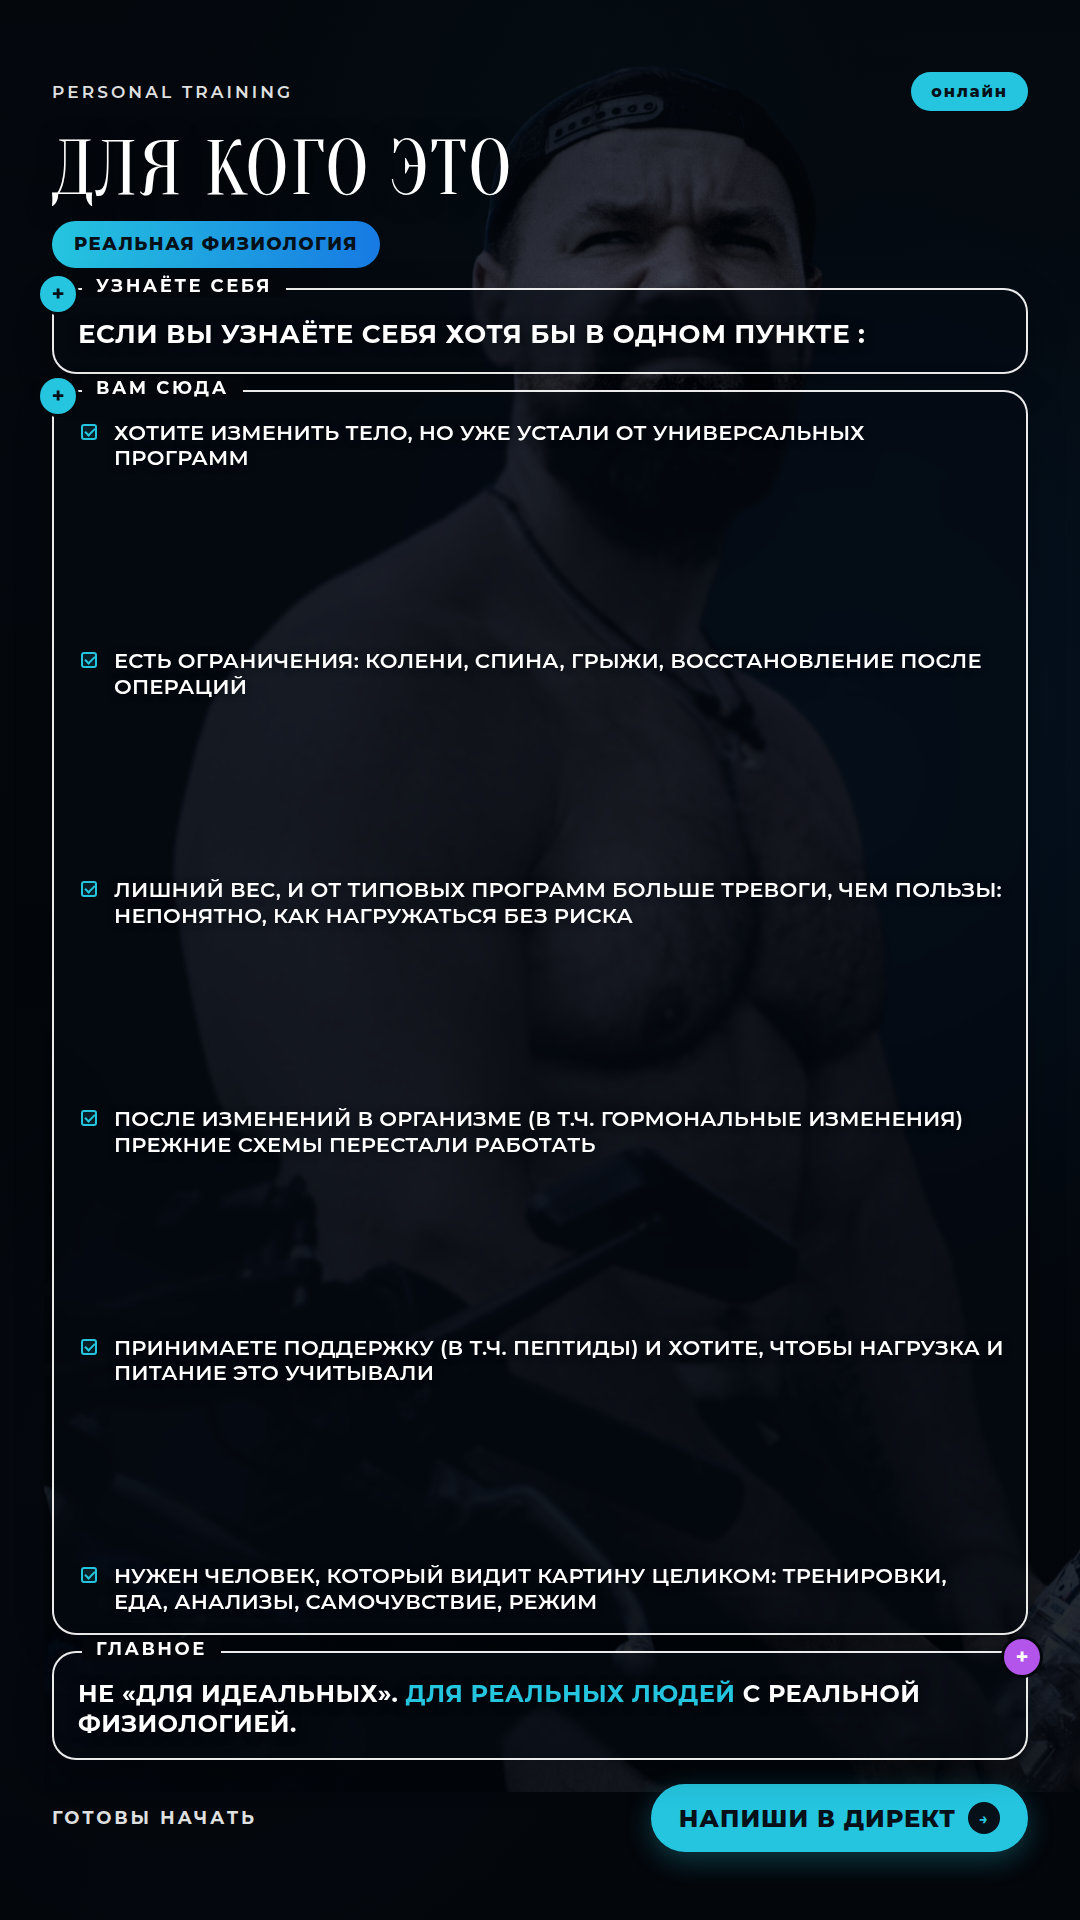
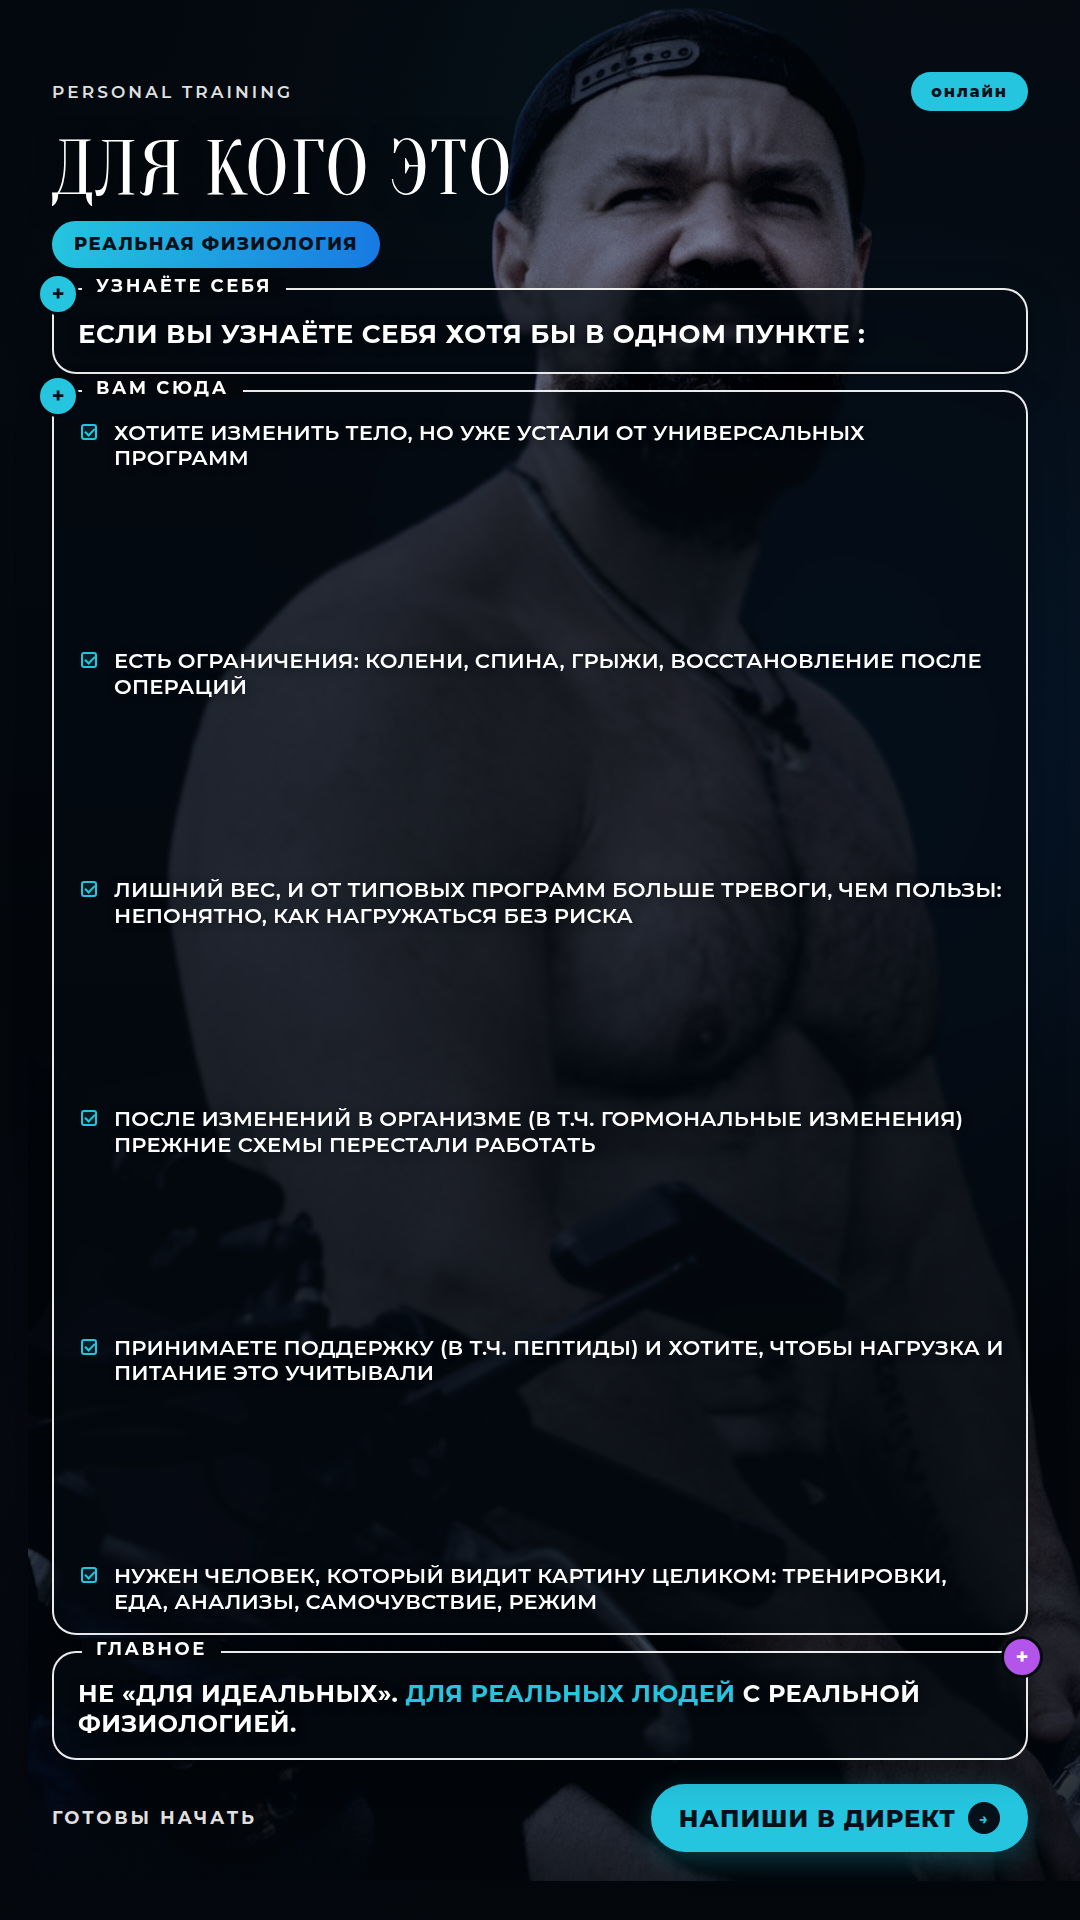
Brighten Artur cutout for stronger presence behind the cards

diff --git a/stories/dlya-kogo.html b/stories/dlya-kogo.html
@@ -15,7 +15,7 @@
       --rose: #AB6D78;
       --burgundy: #9B3441;
       --line: rgba(255, 255, 255, 0.92);
-      --card: rgba(5, 10, 18, 0.62);
+      --card: rgba(5, 10, 18, 0.68);
       --ink: #061018;
     }
 
@@ -46,12 +46,12 @@
     .story-bg {
       position: absolute;
       left: 50%;
-      top: 40px;
-      width: 1180px;
+      top: -20px;
+      width: 1280px;
       height: auto;
-      transform: translateX(-42%);
+      transform: translateX(-40%);
       z-index: 0;
-      filter: brightness(0.88) contrast(1.14) saturate(0.82);
+      filter: brightness(1.02) contrast(1.16) saturate(0.88);
       pointer-events: none;
       user-select: none;
     }
@@ -63,18 +63,18 @@
       background:
         linear-gradient(
           105deg,
-          rgba(3, 7, 12, 0.82) 0%,
-          rgba(3, 7, 12, 0.58) 36%,
-          rgba(3, 7, 12, 0.28) 64%,
-          rgba(3, 7, 12, 0.40) 100%
+          rgba(3, 7, 12, 0.72) 0%,
+          rgba(3, 7, 12, 0.42) 34%,
+          rgba(3, 7, 12, 0.12) 62%,
+          rgba(3, 7, 12, 0.28) 100%
         ),
         linear-gradient(
           180deg,
-          rgba(3, 7, 12, 0.70) 0%,
-          rgba(3, 7, 12, 0.22) 24%,
-          rgba(3, 7, 12, 0.30) 50%,
-          rgba(3, 7, 12, 0.62) 76%,
-          rgba(3, 7, 12, 0.88) 100%
+          rgba(3, 7, 12, 0.58) 0%,
+          rgba(3, 7, 12, 0.10) 22%,
+          rgba(3, 7, 12, 0.18) 48%,
+          rgba(3, 7, 12, 0.50) 74%,
+          rgba(3, 7, 12, 0.82) 100%
         );
     }
 
